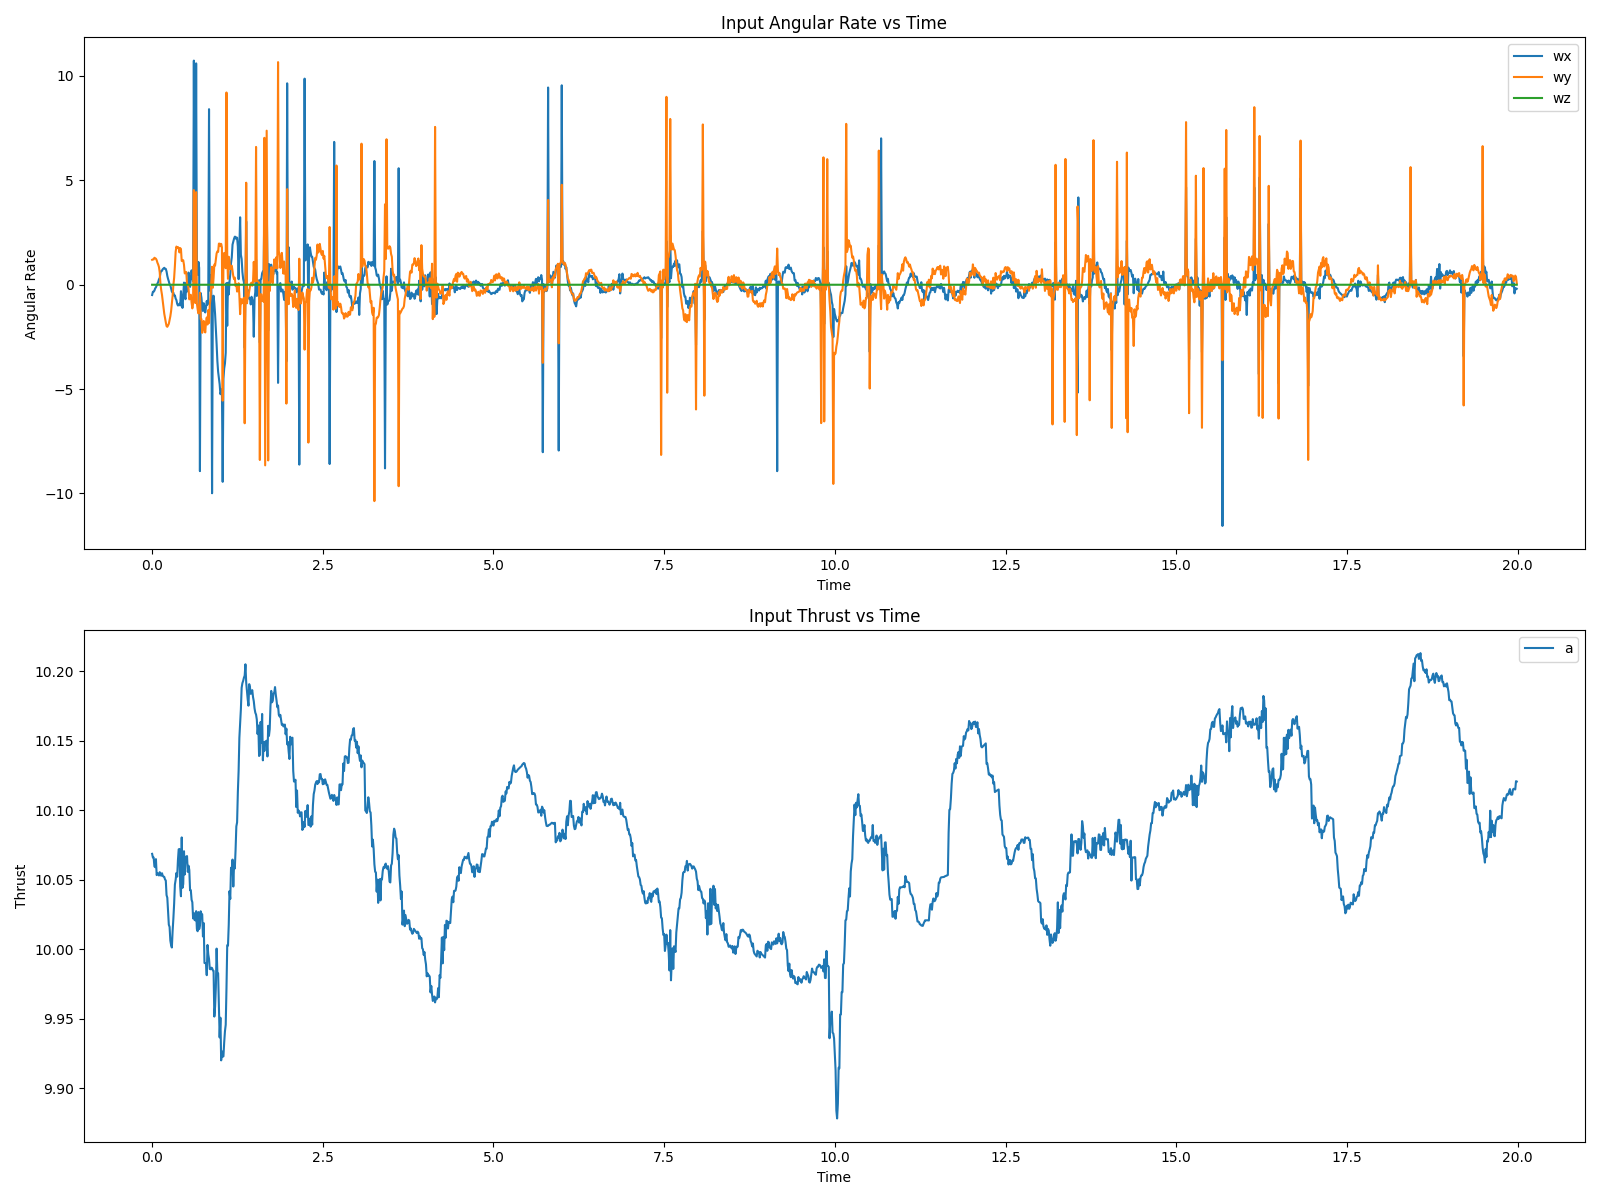
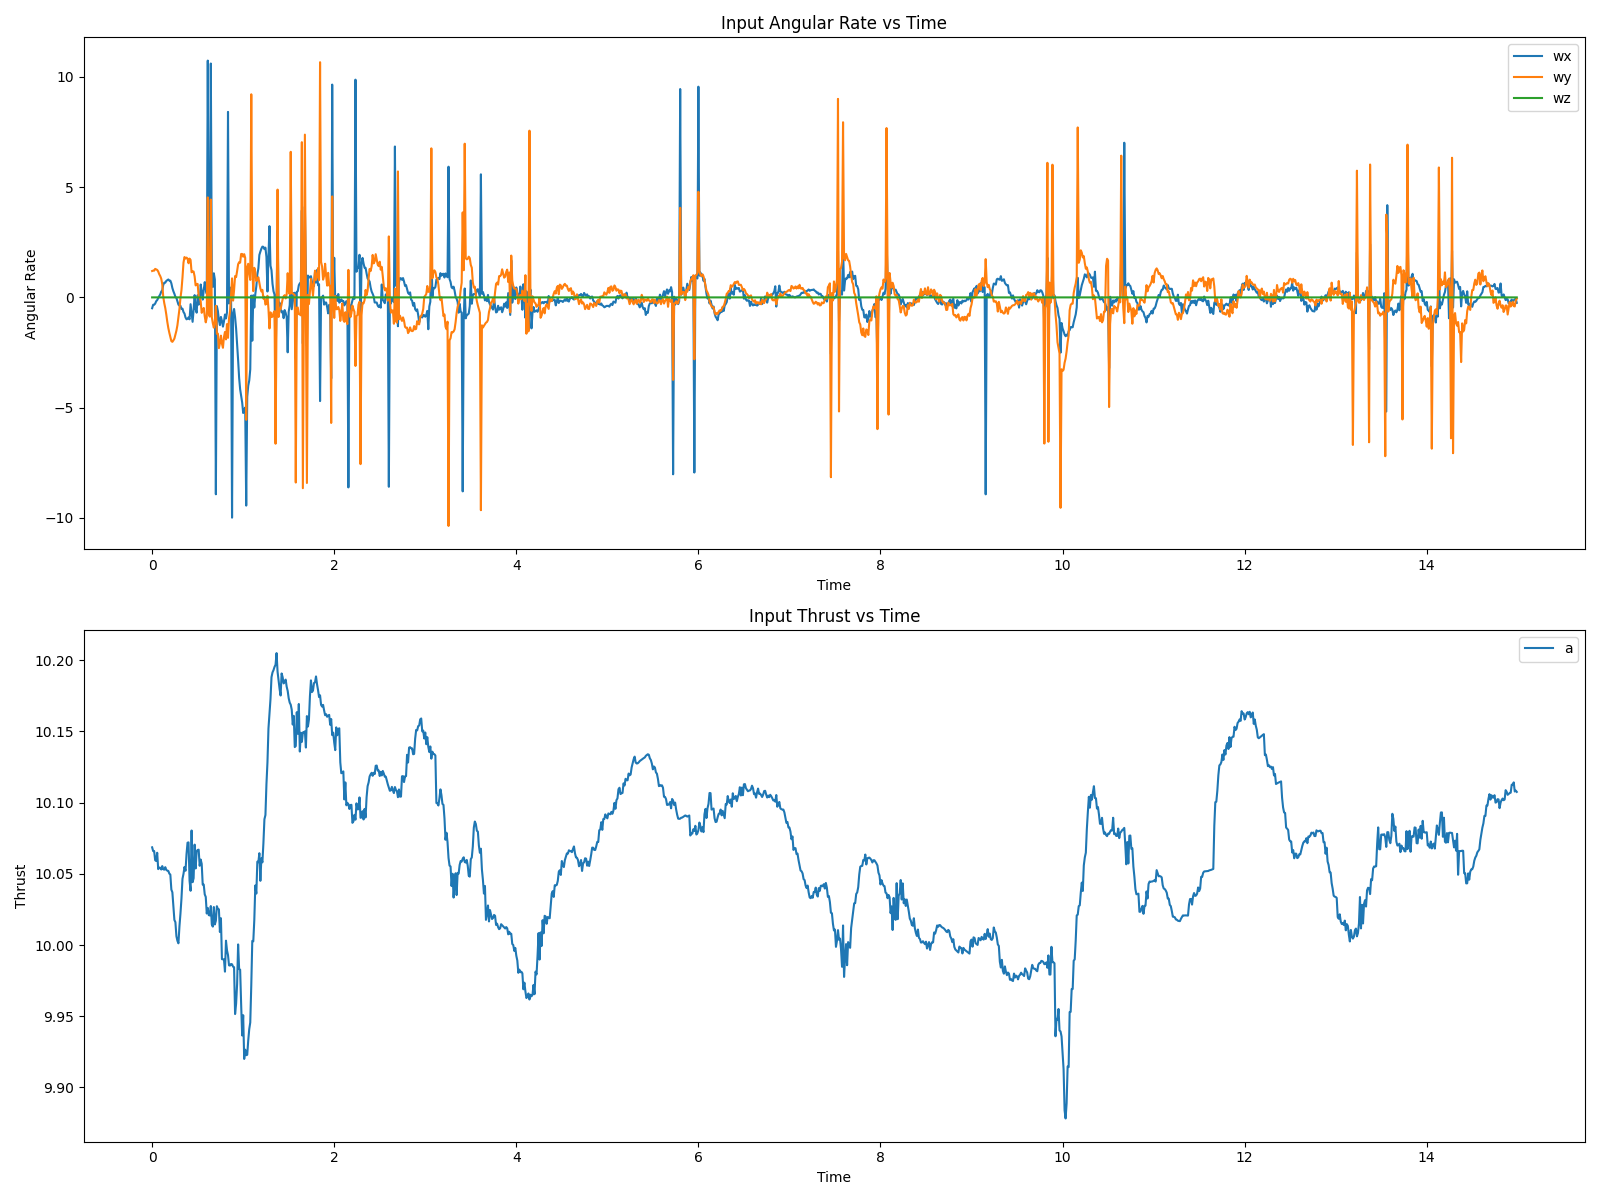
new plots

diff --git a/offboard_ctrl/src/offboard_py/scripts/plots/plot.py b/offboard_ctrl/src/offboard_py/scripts/plots/plot.py
@@ -52,7 +52,7 @@ if __name__ == "__main__":
     # print(e_rs_norm) 
     
     # drop_idx = np.where(e_rs_norm > 0.3)
-    drop_idx = 20*90
+    drop_idx = 15*90
     
     # Extract variables from state_log
     xyz = state_log[0:3, :drop_idx]
